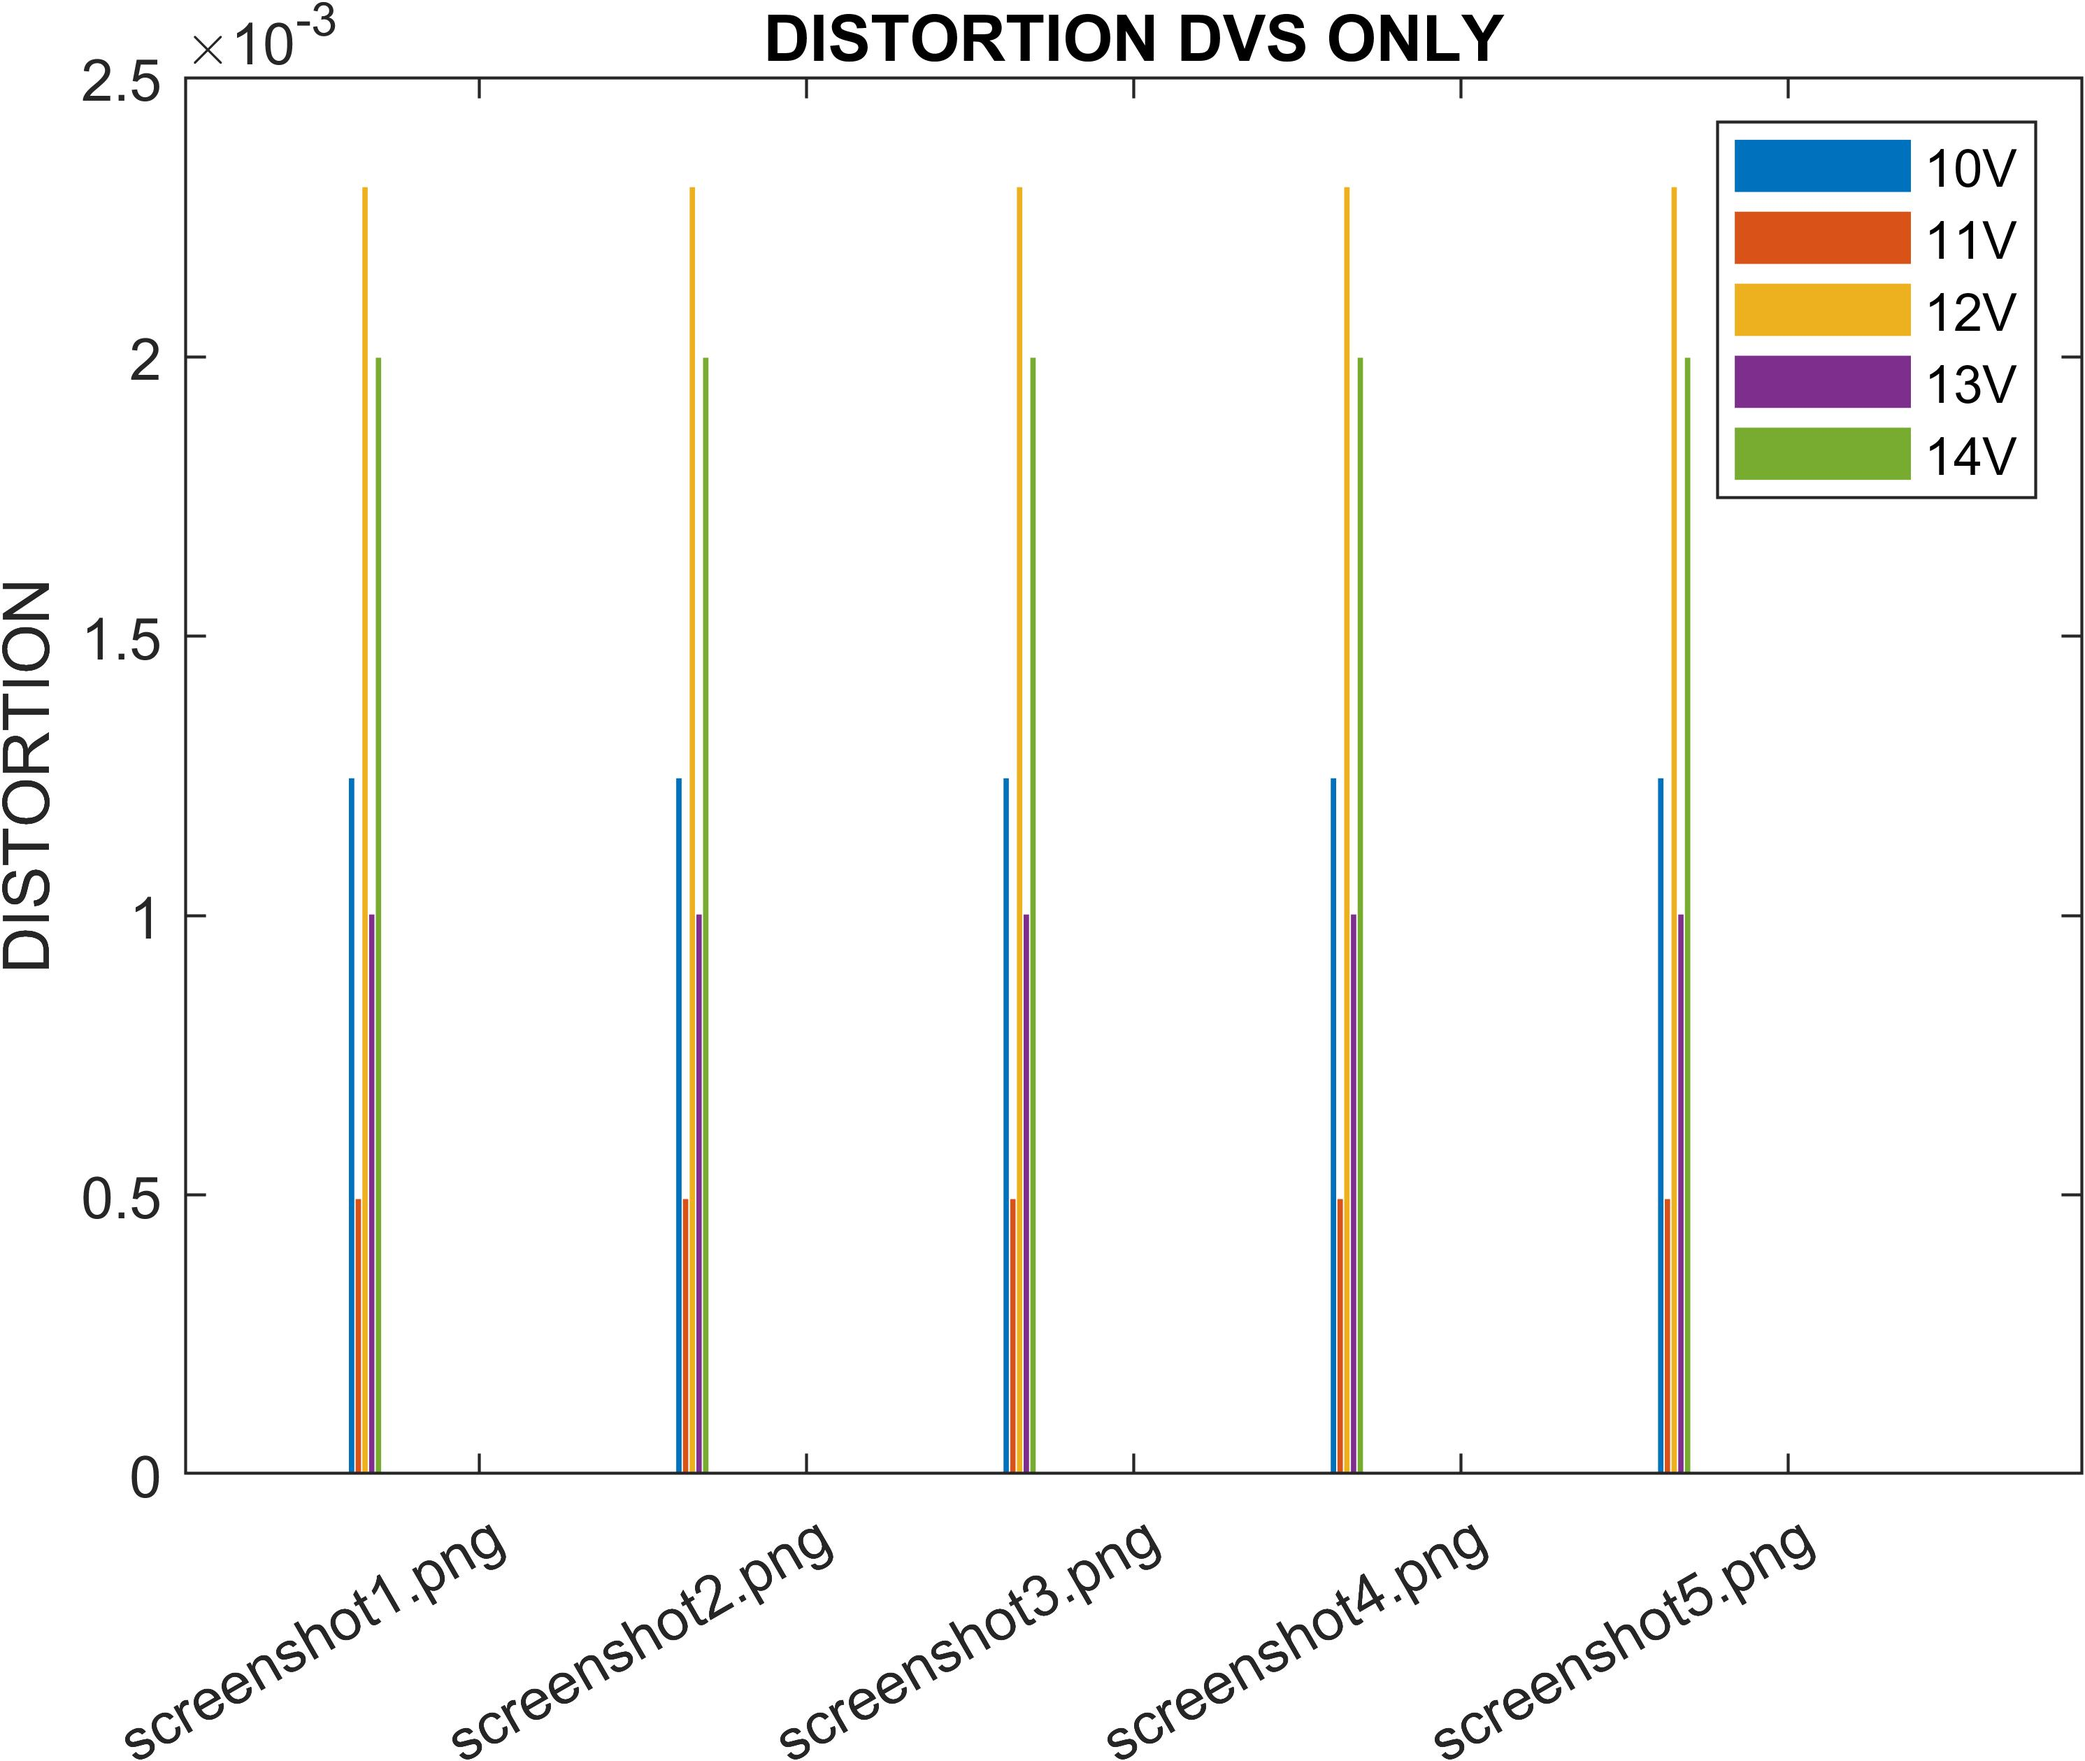
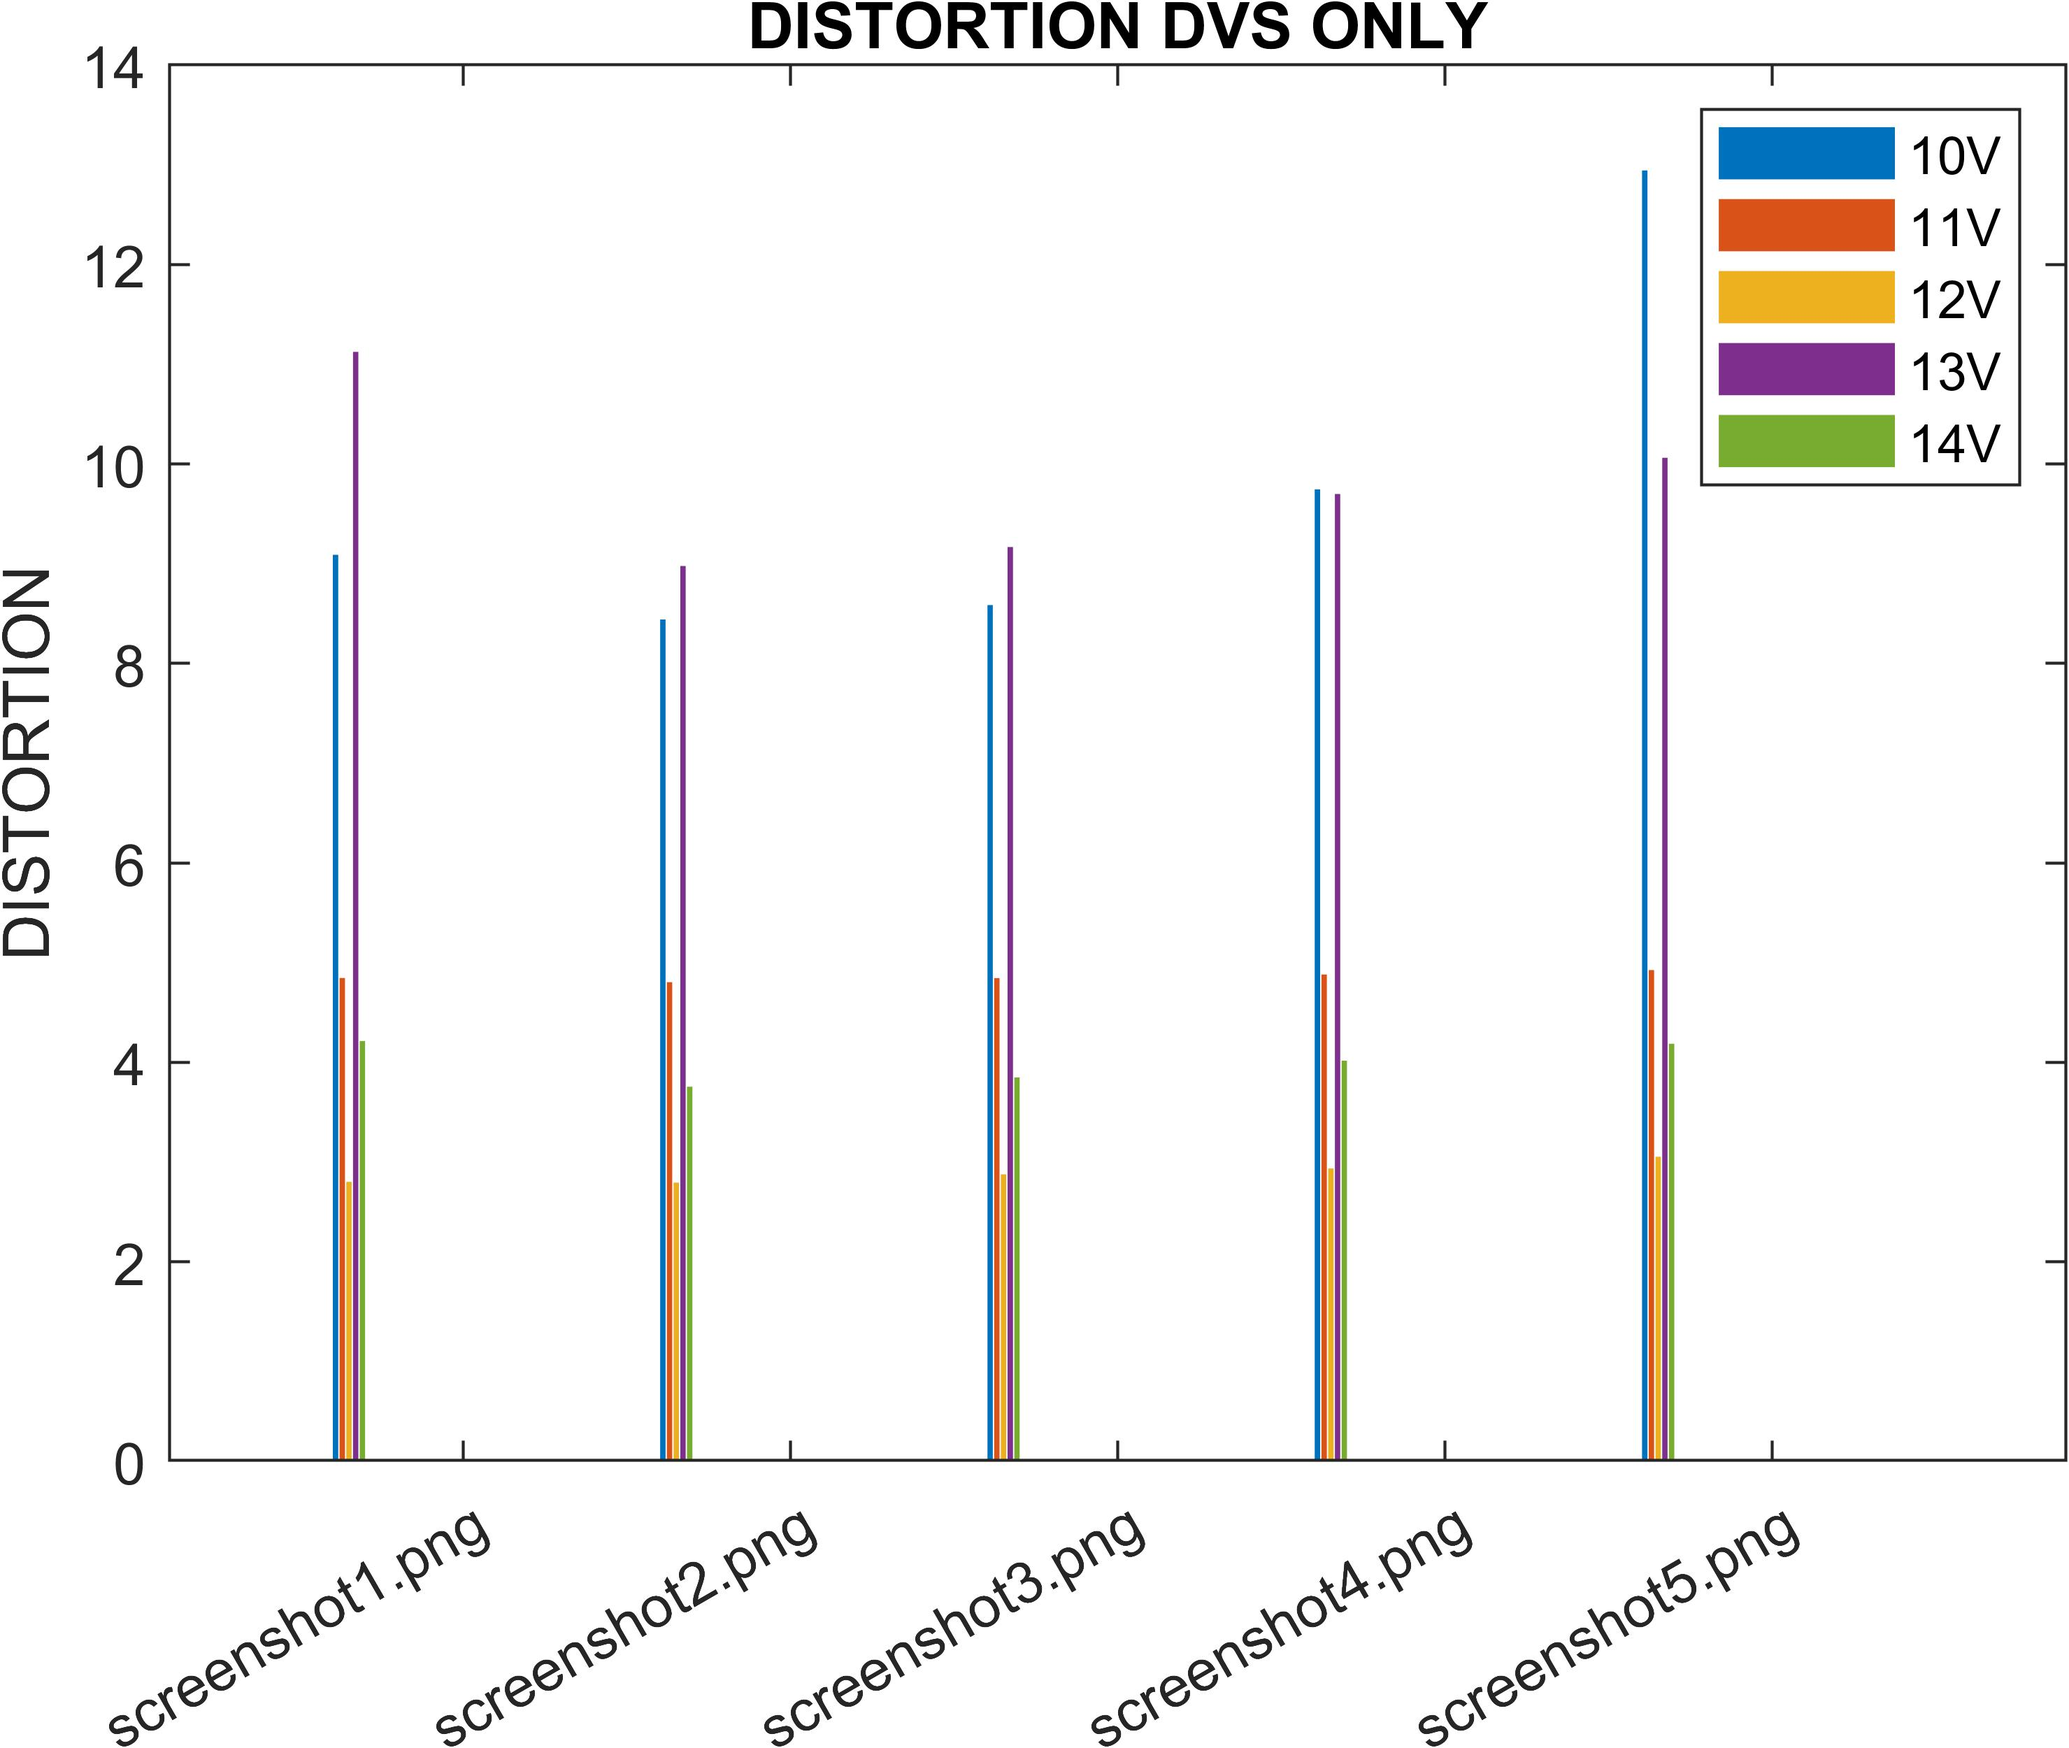
added data structure for curves pv250 and pv1000

diff --git a/lab2/day2_matlab_scripts/day2.m b/lab2/day2_matlab_scripts/day2.m
@@ -26,50 +26,50 @@ images_list3.dir = dir(fullfile("../screenshots/*.png")); % 5 images
 
 %chiamo script auto
 [images_list1, result_struct1] = auto_transf_list1(images_list1);
-%[images_list2, result_struct2] = auto_transf_list2(images_list2);
-%[images_list3, result_struct3] = auto_transf_list1(images_list3);
+[images_list2, result_struct2] = auto_transf_list2(images_list2);
+[images_list3, result_struct3] = auto_transf_list1(images_list3);
 
 %FIGURES FOR POWER SAVINGS
 %%
 %produce graphs for savings list 1
-bar_graph_savings(images_list1, result_struct1.savings_nocomp_distorted, name1);
-%bar_graph_savings(images_list1,result_struct1.savings_brightness_saturated, name1);
+%bar_graph_savings(images_list1, result_struct1.savings_nocomp_distorted, name1);
+bar_graph_savings(images_list1,result_struct1.savings_brightness_saturated, name1);
 %bar_graph_savings(images_list1, result_struct1.savings_contrast_saturated, name1);
 %bar_graph_savings(images_list1, result_struct1.savings_combined_saturated, name1);
 
-%%
+
 %produce graphs for savings list2
 %bar_graph_savings(images_list2, result_struct2.savings_nocomp_saturated, name2);
-%bar_graph_savings(images_list2,result_struct2.savings_brightness_saturated, name2);
+bar_graph_savings(images_list2,result_struct2.savings_brightness_saturated, name2);
 %bar_graph_savings(images_list2, result_struct2.savings_contrast_saturated, name2);
 %bar_graph_savings(images_list2, result_struct2.savings_combined_saturated, name2);
 
-%%
 %produce graphs for savings list3
 %bar_graph_savings(images_list3, result_struct3.savings_nocomp_saturated, name3);  
-%bar_graph_savings(images_list3,result_struct3.savings_brightness_saturated, name3);
+bar_graph_savings(images_list3,result_struct3.savings_brightness_saturated, name3);
 %bar_graph_savings(images_list3, result_struct3.savings_contrast_saturated, name3);
 %bar_graph_savings(images_list3, result_struct3.savings_combined_saturated, name3);
 
+%%
 %FIGURES FOR DISTORTION
 %graphs for distortion list 1
-%%
-bar_graph_distortion(images_list1, result_struct1.distortion_nocomp_distorted, name1);
-%bar_graph_distortion(images_list1, result_struct1.distortion_brightness_distorted, name1);
+
+%bar_graph_distortion(images_list1, result_struct1.distortion_nocomp_distorted, name1);
+bar_graph_distortion(images_list1, result_struct1.distortion_brightness_distorted, name1);
 %bar_graph_distortion(images_list1, result_struct1.distortion_contrast_distorted, name1);
 %bar_graph_distortion(images_list1, result_struct1.distortion_combined_distorted, name1);
 
-%%
+
 %graphs for distortion list 2
 %bar_graph_distortion(images_list2, result_struct2.distortion_nocomp_distorted, name2);
-%bar_graph_distortion(images_list2,result_struct2.distortion_brightness_distorted, name2);
+bar_graph_distortion(images_list2,result_struct2.distortion_brightness_distorted, name2);
 %bar_graph_distortion(images_list2, result_struct2.distortion_contrast_distorted, name2);
 %bar_graph_distortion(images_list2, result_struct2.distortion_combined_distorted, name2);
 
-%%
+
 %graphs for distortion list 3
 %bar_graph_distortion(images_list3, result_struct3.distortion_nocomp_distorted, name3);
-%bar_graph_distortion(images_list3,result_struct3.distortion_brightness_distorted, name3);
+bar_graph_distortion(images_list3,result_struct3.distortion_brightness_distorted, name3);
 %bar_graph_distortion(images_list3, result_struct3.distortion_contrast_distorted, name3);
 %bar_graph_distortion(images_list3, result_struct3.distortion_combined_distorted, name3);
 

diff --git a/lab2/day2_matlab_scripts/transform_example_image.m b/lab2/day2_matlab_scripts/transform_example_image.m
@@ -20,17 +20,17 @@ imshow(image)
 current = Ipanel(image, Vdd);
 
 %for each variation of Vdd between 8 and 14
-    for Vdd_mod = 10:1:14
+    for Vdd_mod = 1:1:14
         %evaluate b for scaling of Vdd
         b = (100 - ((100*Vdd_mod)/Vdd))/100; %calculation of b
 
         %ORIGINAL ONLY DVS
         temp_image_saturated = displayed_image(current,Vdd,SATURATED);
         figure;
-        imshow(temp_image_saturated)
+        imshow(temp_image_saturated/255)
         temp_image_distorted = displayed_image(current,Vdd,DISTORTED);
         figure;
-        imshow(temp_image_distorted)
+        imshow(temp_image_distorted/255)
         
         %COMEPNSATIONS
         %apply Brightness compensation
@@ -39,10 +39,10 @@ current = Ipanel(image, Vdd);
         %apply DVS
         temp_image_saturated = displayed_image(Ipanel_brightness_scaling,Vdd,SATURATED);
         figure;
-        imshow(temp_image_saturated)
+        imshow(temp_image_saturated/255)
         temp_image_distorted = displayed_image(Ipanel_brightness_scaling,Vdd,DISTORTED);
         figure;
-        imshow(temp_image_distorted)
+        imshow(temp_image_distorted/255)
 
         %apply contrast enhancement
         image_contrast_enhancement  = contrast_enhancement(image,b);
@@ -50,10 +50,10 @@ current = Ipanel(image, Vdd);
         %apply DVS
         temp_image_saturated = displayed_image(Ipanel_contrast_enhancement,Vdd,SATURATED);
         figure;
-        imshow(temp_image_saturated)
+        imshow(temp_image_saturated/255)
         temp_image_distorted = displayed_image(Ipanel_contrast_enhancement,Vdd,DISTORTED);
         figure;
-        imshow(temp_image_distorted)
+        imshow(temp_image_distorted/255)
 
          %apply combined compensation
          image_combined = brightnessContrast(image,b,Vdd,Vdd_mod);
@@ -61,10 +61,10 @@ current = Ipanel(image, Vdd);
          %apply DVS
          temp_image_saturated = displayed_image(Ipanel_combined,Vdd,SATURATED);
          figure;
-         imshow(temp_image_saturated)
+         imshow(temp_image_saturated/255)
          temp_image_distorted = displayed_image(Ipanel_combined,Vdd,DISTORTED);
          figure;
-         imshow(temp_image_distorted)
+         imshow(temp_image_distorted/255)
 
     end
 

diff --git a/lab2/day2_matlab_scripts/single_image_compensation_show.m b/lab2/day2_matlab_scripts/single_image_compensation_show.m
@@ -1,0 +1,61 @@
+clc
+close all
+
+SATURATED = 1;
+DISTORTED = 2;
+
+Vdd = 15;
+Vdd_mod = 12;
+
+image = imread("../misc/4.1.01.tiff");
+[H, W, channels] = size(image); %function of imaging processing packet
+
+if channels == 1 %in case the image is in black and white without colors
+    image = gray2rgb(image);
+    %gray_distribution(image);
+end
+
+
+b = (100 - ((100*Vdd_mod)/Vdd))/100; %calculation of b
+
+current_original = Ipanel(image, Vdd);
+current_power = Ppanel(current_original,Vdd,image);
+
+temp_dvs_image_sat = displayed_image(current_original,Vdd_mod,1);
+temp_dvs_image_dist = displayed_image(current_original,Vdd_mod,2);
+
+image_brightness_scaling = brightness_scaling(image,b);
+current_brightness = Ipanel(image_brightness_scaling,Vdd_mod);
+temp_brightness_sat = displayed_image(current_brightness,Vdd_mod,1);
+temp_brightness_dist = displayed_image(current_brightness,Vdd_mod,2);
+power_brigthness = Ppanel(current_brightness,Vdd_mod,image_brightness_scaling);
+
+image_contrast_scaling = contrast_enhancement(image,b);
+current_contrast = Ipanel(image_contrast_scaling, Vdd_mod);
+temp_contrast_sat = displayed_image(current_contrast,Vdd_mod,1);
+temp_contrast_dist = displayed_image(current_contrast,Vdd_mod,2);
+
+image_combined = brightnessContrast(image,b,Vdd,Vdd_mod);
+current_combined = Ipanel(image_combined,Vdd_mod);
+temp_combined_sat = displayed_image(current_combined,Vdd_mod,1);
+temp_combined_dist = displayed_image(current_combined,Vdd_mod,2);
+
+
+figure;
+imshow(image); %original
+%figure;
+%imshow(temp_dvs_image_sat/255);
+%figure;
+%imshow(temp_dvs_image_dist/255);
+figure;
+imshow(temp_brightness_sat/255);
+figure;
+imshow(temp_brightness_dist/255);
+figure;
+imshow(temp_contrast_sat/255);
+figure;
+imshow(temp_contrast_dist/255);
+figure;
+imshow(temp_combined_sat/255);
+figure;
+imshow(temp_combined_dist/255);

diff --git a/lab2/day2_matlab_scripts/bar_graph_distortion.m b/lab2/day2_matlab_scripts/bar_graph_distortion.m
@@ -8,8 +8,8 @@ function bar_graph_distortion(images_list,result_struct, name_list)
     x_name = categorical(images_list.name);
     x_name = reordercats(x_name);
     
-    result_struct = result_struct / 100;
-    result_struct = result_struct / 100; %they are the  same
+    result_struct = result_struct / 10;
+    result_struct = result_struct / 10; %they are the  same
       
     fig_bar5 = figure;
     
@@ -18,10 +18,10 @@ function bar_graph_distortion(images_list,result_struct, name_list)
     l{1}='10V'; l{2}='11V'; l{3}='12V'; l{4}='13V'; l{5}='14V';
     legend(fig_bar5,l);
     ylabel('DISTORTION');
-    title('DISTORTION DVS ONLY');
+    title('DISTORTION BRIGHTNESS SCALING AND DVS');
     %save image
     ax = gca;
-    saving_path = strcat(folder, 'distortion_DVS_ONLY_', name_list, '.jpg');
+    saving_path = strcat(folder, 'distortion_brightness_', name_list, '.jpg');
     exportgraphics(ax, saving_path, 'resolution',600); %remember to change name to specify the list
 
 end

diff --git a/lab2/day2_matlab_scripts/bar_graph_savings.m b/lab2/day2_matlab_scripts/bar_graph_savings.m
@@ -18,10 +18,10 @@ function bar_graph_savings(images_list,result_struct, name_list)
     l{1}='10V'; l{2}='11V'; l{3}='12V'; l{4}='13V'; l{5}='14V';
     legend(fig_bar5,l);
     ylabel('SAVINGS  [W]');
-    title('POWER SAVINGS ONLY VDS');
+    title('POWER SAVINGS BRIGHTNESS SCALING AND DVS');
     %save image
     ax = gca;
-    saving_path = strcat(folder, 'power_savings_DVS_ONLY_', name_list, '.jpg');
+    saving_path = strcat(folder, 'power_brightness_', name_list, '.jpg');
     exportgraphics(ax, saving_path, 'resolution',600); %remember to change name to specify the list
 
 end

diff --git a/lab3/lab3_upload/config_simulink.m b/lab3/lab3_upload/config_simulink.m
@@ -1,0 +1,16 @@
+%run this script to load variables in simulink
+
+%read data from image with digitizer
+%imread("PVcell\datasheet.bmp");
+%digitizer();
+
+load('gmonths.mat');
+G = [250; 500; 750; 1000];
+I = [];
+V = [];
+
+
+load('pvcell_250.mat');
+load('pvcell_500.mat');
+load('pvcell_750.mat');
+load('pvcell_1000.mat');

diff --git a/lab3/lab3_upload/config.m b/lab3/lab3_upload/config.m
@@ -33,8 +33,10 @@ transmit_pulse = (transmit_time * 100)/period;
 % simulation length
 sim_length = Gmonth(size(Gmonth, 1),1);
 
-%%
-% producing curves from datasheets
-image = imread("PVcell\datasheet.bmp");
-digitizer();
+
+
+
+
+
+
 
